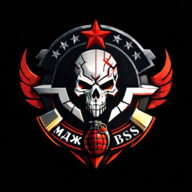
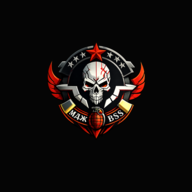
Fix test-mode redirect sequencing and refresh branding assets

Changed region(s): [[0.0938, 0.0938, 0.9062, 0.875]]

diff --git a/tests/e2e/app.spec.ts b/tests/e2e/app.spec.ts
@@ -31,6 +31,18 @@ const runtimeConfig = {
   ]
 };
 
+const testModeRuntimeConfig = {
+  ...runtimeConfig,
+  app: {
+    ...runtimeConfig.app,
+    testMode: {
+      sequenceServerIds: [1, 2],
+      delayMs: 1000,
+      cooldownMs: 50
+    }
+  }
+};
+
 function buildTeam(id: number, name: string, totalPlaytimeHours: number) {
   return {
     id,
@@ -82,7 +94,8 @@ function buildSnapshot({
   playerCount,
   maxPlayers,
   queueLength,
-  online
+  online,
+  timestamp = BASE_TIME
 }: {
   id: number;
   code: string;
@@ -91,11 +104,12 @@ function buildSnapshot({
   maxPlayers: number;
   queueLength: number;
   online: boolean;
+  timestamp?: number;
 }) {
   return {
     success: true,
-    timestamp: BASE_TIME,
-    generatedAt: new Date(BASE_TIME).toISOString(),
+    timestamp,
+    generatedAt: new Date(timestamp).toISOString(),
     version: 3,
     servers: [
       {
@@ -192,18 +206,111 @@ async function mockAutoseedApi(page: Page, counters?: { joinLinkRequests: number
   );
 }
 
+async function mockTestModeAutoseedApi(
+  page: Page,
+  counters: { firstJoinLinkRequests: number; secondJoinLinkRequests: number }
+) {
+  let currentTimestamp = BASE_TIME;
+  const nextTimestamp = () => {
+    currentTimestamp += 1000;
+    return currentTimestamp;
+  };
+
+  await page.route('**/runtime-config.json', (route) => fulfillJson(route, testModeRuntimeConfig));
+  await page.route('**/mock/**/events', (route) =>
+    route.fulfill({
+      status: 503,
+      contentType: 'text/plain; charset=utf-8',
+      body: 'sse unavailable in test'
+    })
+  );
+  await page.route('**/mock/squadjs1/snapshot', (route) =>
+    fulfillJson(
+      route,
+      buildSnapshot({
+        id: 1,
+        code: 'squadjs1',
+        name: '[RU] BSS Classic',
+        playerCount: 24,
+        maxPlayers: 100,
+        queueLength: 0,
+        online: true,
+        timestamp: nextTimestamp()
+      })
+    )
+  );
+  await page.route('**/mock/squadjs2/snapshot', (route) =>
+    fulfillJson(
+      route,
+      buildSnapshot({
+        id: 2,
+        code: 'squadjs2',
+        name: '[RU] BSS Spec Ops',
+        playerCount: 56,
+        maxPlayers: 100,
+        queueLength: 2,
+        online: true,
+        timestamp: nextTimestamp()
+      })
+    )
+  );
+  await page.route('**/mock/squadjs1/join-link', async (route) => {
+    counters.firstJoinLinkRequests += 1;
+    await fulfillJson(route, {
+      ok: true,
+      timestamp: BASE_TIME,
+      serverId: 1,
+      serverCode: 'squadjs1',
+      serverName: '[RU] BSS Classic',
+      joinLink: REDIRECT_TARGET_URL
+    });
+  });
+  await page.route('**/mock/squadjs2/join-link', async (route) => {
+    counters.secondJoinLinkRequests += 1;
+    await fulfillJson(route, {
+      ok: true,
+      timestamp: BASE_TIME,
+      serverId: 2,
+      serverCode: 'squadjs2',
+      serverName: '[RU] BSS Spec Ops',
+      joinLink: REDIRECT_TARGET_URL
+    });
+  });
+  await page.route('**/redirect-target', (route) =>
+    route.fulfill({
+      status: 200,
+      contentType: 'text/html; charset=utf-8',
+      body: '<!doctype html><html><body><main data-testid="redirect-target">Точка перехода</main></body></html>'
+    })
+  );
+}
+
 async function mockSuccessfulPermissionCheck(page: Page) {
   await page.addInitScript(() => {
-    window.open = () =>
-      ({
+    const createPopup = () => {
+      let closed = false;
+
+      return {
         document: {
+          open() {},
           write() {},
           close() {}
         },
-        close() {},
+        location: {
+          href: ''
+        },
+        close() {
+          closed = true;
+        },
         focus() {},
-        closed: false
-      }) as unknown as Window;
+        get closed() {
+          return closed;
+        }
+      };
+    };
+
+    window.open = () =>
+      createPopup() as unknown as Window;
 
     const originalCreateElement = Document.prototype.createElement;
     Document.prototype.createElement = function (
@@ -312,4 +419,28 @@ test('keeps the layout usable on mobile without document-level horizontal overfl
   );
 
   expect(hasNoDocumentOverflow).toBe(true);
+});
+
+test('keeps the pending test sequence and still sends the second transition after a fresh snapshot', async ({
+  page
+}) => {
+  const counters = { firstJoinLinkRequests: 0, secondJoinLinkRequests: 0 };
+  await mockSuccessfulPermissionCheck(page);
+  await mockTestModeAutoseedApi(page, counters);
+
+  await page.goto('/');
+  await page.getByTestId('mode-test').click();
+  await page.getByTestId('check-browser-button').click();
+  await expect(page.getByTestId('check-browser-button')).toContainText('Браузер проверен');
+
+  await page.getByTestId('power-toggle').click();
+  await expect.poll(() => counters.firstJoinLinkRequests).toBe(1);
+  await expect(page.getByText(/^Следующий переход$/)).toBeVisible();
+
+  await page.waitForTimeout(120);
+  await page.getByTestId('refresh-snapshot-button').click();
+  await page.waitForTimeout(120);
+
+  expect(counters.firstJoinLinkRequests).toBe(1);
+  await expect.poll(() => counters.secondJoinLinkRequests).toBe(1);
 });

diff --git a/src/App.tsx b/src/App.tsx
@@ -786,6 +786,7 @@ export default function App({ config }: AppProps) {
   const cooldownUntilRef = useRef(cooldownUntil);
   const lastProcessedTimestampRef = useRef(lastProcessedTimestamp);
   const permissionsRef = useRef(permissions);
+  const pendingSequenceRef = useRef(pendingSequence);
   const connectorWindowRef = useRef<Window | null>(null);
   const sequenceTimerRef = useRef<number | null>(null);
   const testSequenceDelayMsRef = useRef<number>(0);
@@ -822,6 +823,10 @@ export default function App({ config }: AppProps) {
   useEffect(() => {
     permissionsRef.current = permissions;
   }, [permissions]);
+
+  useEffect(() => {
+    pendingSequenceRef.current = pendingSequence;
+  }, [pendingSequence]);
 
   useEffect(() => {
     if (!hasConfiguredTestMode && mode !== 'production') {
@@ -982,6 +987,10 @@ export default function App({ config }: AppProps) {
               ? 'Переход отменён: тестовый режим пока не готов.'
               : 'Переход отменён: нет подходящего сервера.'
           );
+          return;
+        }
+
+        if (testModeEnabled && pendingSequenceRef.current?.remaining.length && !options?.forceRedirect) {
           return;
         }
 
